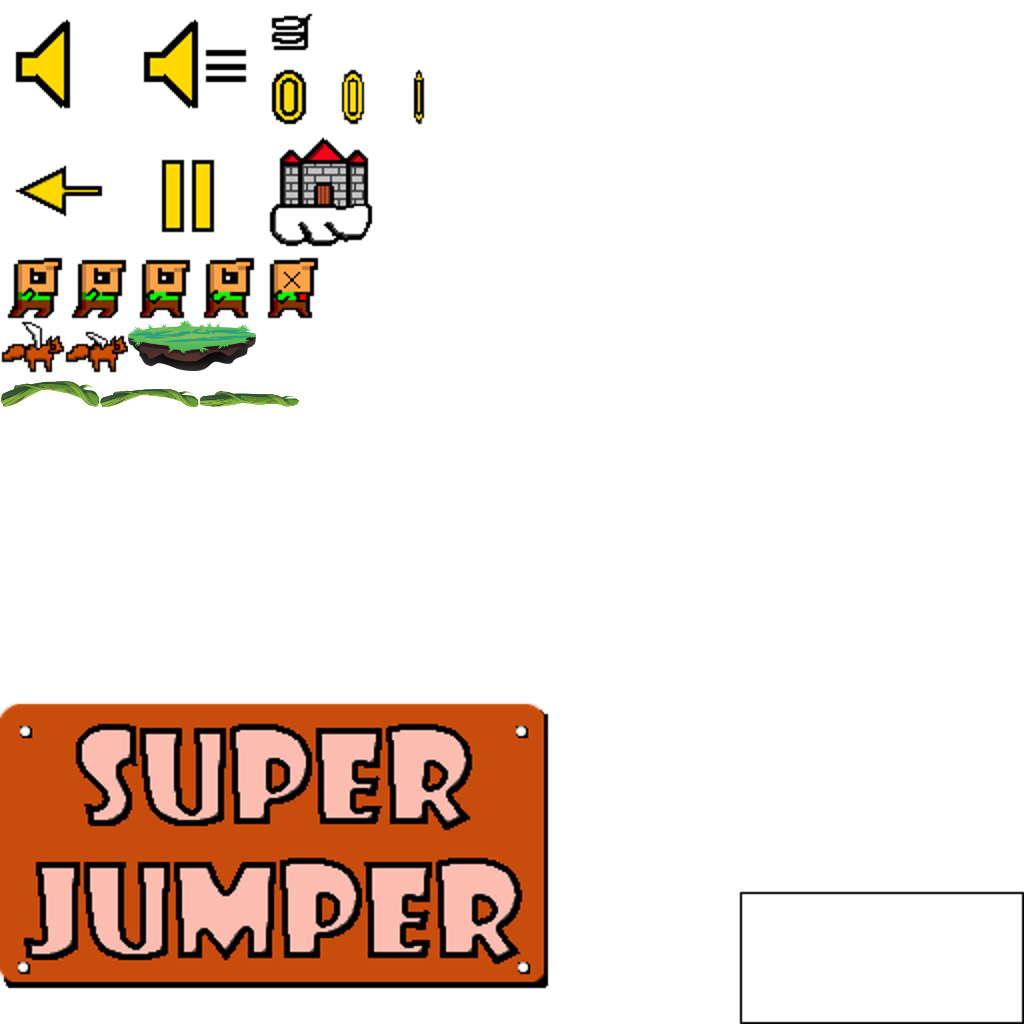
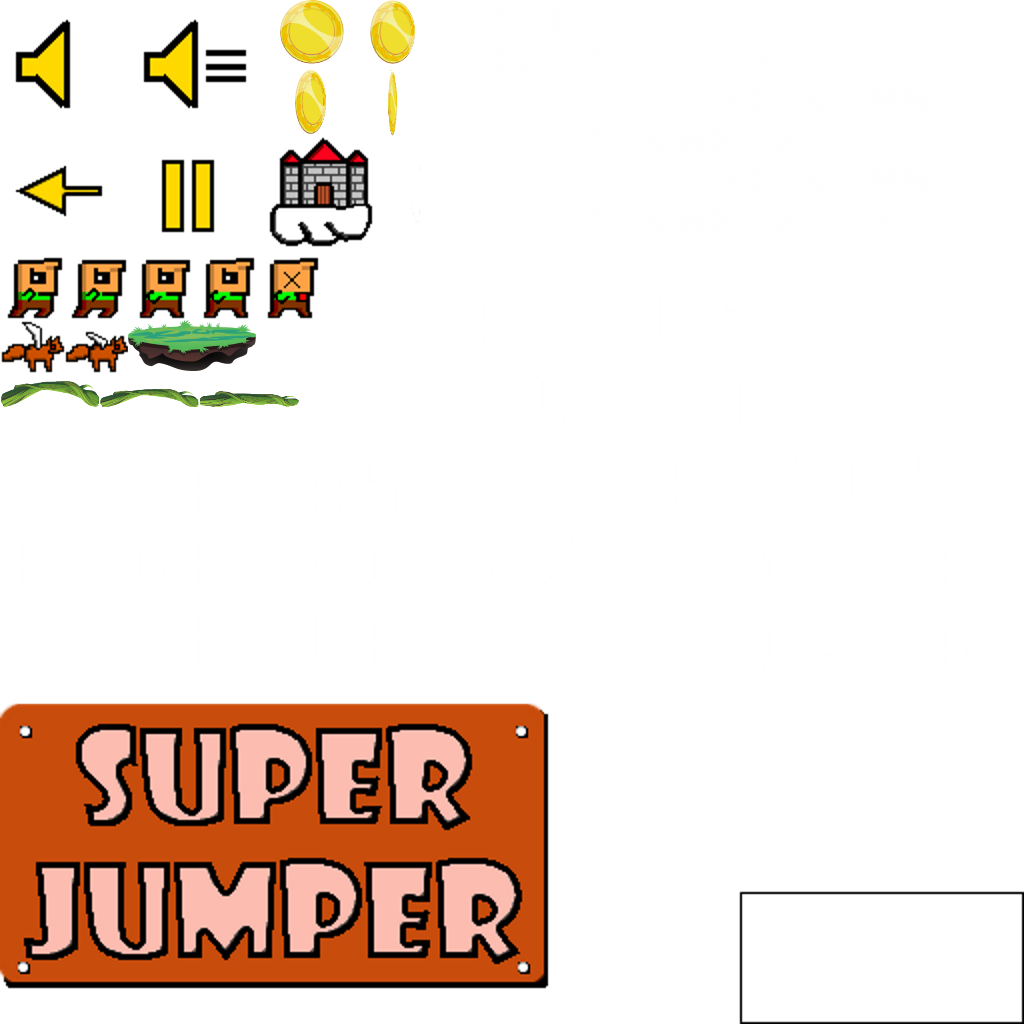
UpdateGraphics - updated new coin image and fixed text

Changed region(s): [[0.25, 0.0, 0.4375, 0.125]]

diff --git a/app/src/main/java/com/mlm09kdev/jump_jump/Assets.java b/app/src/main/java/com/mlm09kdev/jump_jump/Assets.java
@@ -73,17 +73,19 @@ class Assets {
 
         castle = new TextureRegion(items, 128 * 2, 64 * 2, 64 * 2, 64 * 2);
         coinAnim = new Animation(.2f,
-                new TextureRegion(items, 128 * 2, 32 * 2, 32 * 2, 32 * 2),
-                new TextureRegion(items, 160 * 2, 32 * 2, 32 * 2, 32 * 2),
-                new TextureRegion(items, 192 * 2, 32 * 2, 32 * 2, 32 * 2),
-                new TextureRegion(items, 160 * 2, 32 * 2, 32 * 2, 32 * 2));
+                new TextureRegion(items, 280, 0, 64, 64),
+                new TextureRegion(items, 360, 0, 64, 64),
+                new TextureRegion(items, 280, 70, 64, 64),
+                new TextureRegion(items, 360, 70, 64, 64),
+                new TextureRegion(items, 280, 70, 64, 64),
+                new TextureRegion(items, 360, 0, 64, 64));
         playerJump = new Animation(0.2f,
                 new TextureRegion(items, 0, 128 * 2, 32 * 2, 32 * 2),
                 new TextureRegion(items, 32 * 2, 128 * 2, 32 * 2, 32 * 2));
         playerFall = new Animation(0.2f,
                 new TextureRegion(items, 64 * 2, 128 * 2, 32 * 2, 32 * 2),
                 new TextureRegion(items, 96 * 2, 128 * 2, 32 * 2, 32 * 2));
-        playerHit = new TextureRegion(items, 128, 128, 32, 32);
+        playerHit = new TextureRegion(items, 128*2, 128*2, 32*2, 32*2);
         squirrelFly = new Animation(0.2f,
                 new TextureRegion(items, 0, 160 * 2, 32 * 2, 32 * 2),
                 new TextureRegion(items, 32 * 2, 160 * 2, 32 * 2, 32 * 2));
@@ -95,7 +97,7 @@ class Assets {
                 new TextureRegion(items, 64 * 2, 208 * 2, 64 * 2, 16 * 2));
 
 
-        font = new Font(items, 225*2, 0, 16, 32, 40);
+        font = new Font(items, 225 * 2, 0, 16, 32, 40);
 
         music = game.getAudio().newMusic("music.mp3");
         music.setLooping(true);

diff --git a/app/src/main/java/com/mlm09kdev/jump_jump/MainMenuScreen.java b/app/src/main/java/com/mlm09kdev/jump_jump/MainMenuScreen.java
@@ -34,7 +34,7 @@ public class MainMenuScreen extends GLScreen {
     private final int mainMenuWidth = 800;
     private final int mainMenuHeight = 498;
 
-    private final int soundIconXY = 64;
+    private final int soundIconXY = 64*2;
     private final int SoundIconWidthHeight = 128;
 
 
@@ -125,7 +125,7 @@ public class MainMenuScreen extends GLScreen {
         batcher.drawSprite(mainMenuX, mainMenuY, mainMenuWidth, mainMenuHeight, Assets.mainMenu);
        // batcher.drawSprite(mainMenuX, mainMenuY+165, mainMenuWidth-400, mainMenuHeight-315, Assets.testRec);
 
-        batcher.drawSprite(soundIconXY, soundIconXY, SoundIconWidthHeight, SoundIconWidthHeight, Settings.soundEnabled ? Assets.soundOn : Assets.soundOff);
+        batcher.drawSprite(soundIconXY, soundIconXY, SoundIconWidthHeight * 2, SoundIconWidthHeight * 2, Settings.soundEnabled ? Assets.soundOn : Assets.soundOff);
 
         batcher.endBatch();
 

diff --git a/app/src/main/java/com/mlm09kdev/jump_jump/Framework/GL/Font.java b/app/src/main/java/com/mlm09kdev/jump_jump/Framework/GL/Font.java
@@ -13,8 +13,8 @@ public class Font {
             int offsetX, int offsetY,
             int glyphsPerRow, int glyphWidth, int glyphHeight) {        
         this.texture = texture;
-        this.glyphWidth = glyphWidth;
-        this.glyphHeight = glyphHeight;
+        this.glyphWidth = glyphWidth/2;
+        this.glyphHeight = glyphHeight/2;
         int x = offsetX;
         int y = offsetY;
         for(int i = 0; i < 96; i++) {

diff --git a/app/src/main/java/com/mlm09kdev/jump_jump/WorldRenderer.java b/app/src/main/java/com/mlm09kdev/jump_jump/WorldRenderer.java
@@ -111,7 +111,7 @@ class WorldRenderer {
         for (int i = 0; i < len; i++) {
             Coin coin = world.coins.get(i);
             TextureRegion keyFrame = Assets.coinAnim.getKeyFrame(coin.stateTime, Animation.ANIMATION_LOOPING);
-            batcher.drawSprite(coin.position.x, coin.position.y, 1, 1, keyFrame);
+            batcher.drawSprite(coin.position.x, coin.position.y, .5f, .75f, keyFrame);
         }
     }
 
